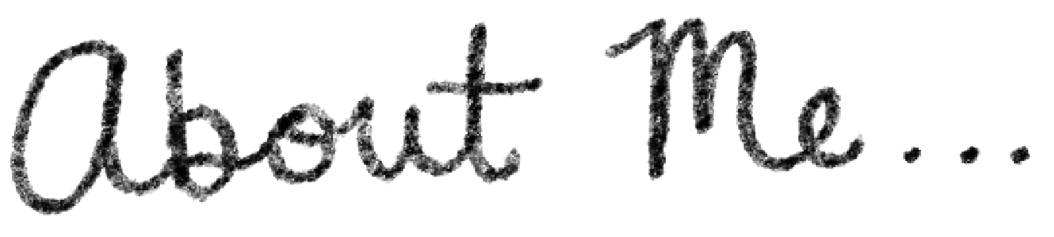
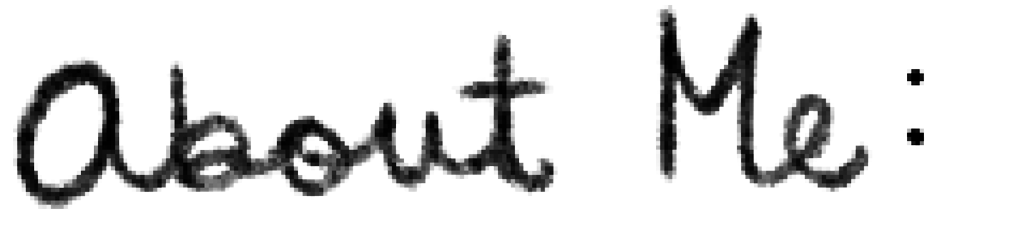
more updates

diff --git a/link.html b/link.html
@@ -19,26 +19,28 @@
   <nav>
       <ul class="navLinks">
         <li><a href="#Portfolio">Portfolio</a></li>
-        <li><a class="Resume" href=https://docs.google.com/document/d/1jrzqpjiagCrJo1YREEmkV6RM_bEIgH66/edit>Resume</a></li>
+        <li><a class="Resume" href=https://drive.google.com/file/d/15mvcexuAdEmLzTKPOJ1DM9QM28PHeR0C/view?usp=sharing>Resume</a></li>
         <li><a class="Contact" href="mailto: cara_nixon@berkeley.edu">Contact</a></li>
       </ul>
     </nav>
   <main>
-    <div class="container">
+    <div class="h3Beats">
+    <h3>Explore the beats I've covered by clicking the illustrated buttons below.</h3>
+  </div>
+    <div class="container1">
         <div class="column">
           <div class="educationbutton">
           <button onclick="submit()">
             <a href="#ed">
-              <img src="./assets/edbutton.png">
+              <img src="./assets/edbutton.png" alt="An illustration of a schoolhouse.">
             </a>
           </button>
            <div class="sjbutton">
             <button onclick="submit()">
               <a href="#sj">
-          <img src="./assets/sjbutton.png">
+          <img src="./assets/sjbutton.png" alt="An illustration of justice scales.">
         </a>
       </button>
-        
        </div>
      </div>
    </div>
@@ -46,13 +48,13 @@
           <div class="housingbutton">
           <button onclick="submit()">
             <a href="#house">
-              <img src="./assets/housingbutton.png">
+              <img src="./assets/housingbutton.png" alt="An illustration of a house.">
             </a>
           </button>
           <div class="healthbutton">
             <button onclick="submit()">
               <a href="#health">
-          <img src="./assets/healthbutton.png">
+          <img src="./assets/healthbutton.png" alt="An illustration of a first aid kit.">
         </a>
       </button>
         </div>
@@ -62,13 +64,13 @@
           <div class="polibutton">
             <button onclick="submit()">
               <a href="#poli">
-          <img src="./assets/polibutton.png">
+          <img src="./assets/polibutton.png" alt="An illustration of a government building with columns.">
         </a>
       </button>
          <div class="aebutton">
           <button onclick="submit()">
             <a href="#ae">
-              <img src="./assets/aebutton.png">
+              <img src="./assets/aebutton.png" alt="An illustration of an open book and film slate surrounded by tiny stars.">
             </a>
           </button>
         </div>
@@ -79,7 +81,7 @@
 <hr>
       <div class="portfoliopara">
         <div class="education">
-          <img id="ed" src="./assets/education.png">
+          <img id="ed" src="./assets/education.png" alt="Cursive handwriting reading 'Education.'">
         </div>
         <h3><u>K-12</u></h3>
           <p><strong><a href="https://richmondconfidential.org/2023/02/13 richmond-wccusd-teachers-contract-agreement-strike/">WCCUSD teachers reach tentative agreement with district to avert strike</a></strong>, Feb. 13, 2023 — Richmond Confidential</p>
@@ -97,14 +99,14 @@
           <p><strong><a href="https://dailybaro.orangemedianetwork.com/869/daily-barometer-news/osu-leading-in-cultivating-change-as-first-chapter-on-west-coast/">OSU leading in Cultivating Change as first chapter on West Coast</a></strong>, April 26, 2021 — The Daily Barometer</p>
           <hr>
            <div class="housing">
-          <img id="house" src="./assets/housing.png">
+          <img id="house" src="./assets/housing.png" alt="Cursive handwriting reading 'Housing.'">
         </div>
            <p><strong><a href="https://dailybaro.orangemedianetwork.com/12799/daily-barometer-news/osu-hsrc-receives-state-funding-for-basic-need-assistance-services/">OSU HSRC receives state funding for basic need assistance services</a></strong>, July 25, 2021 — The Daily Barometer</p>
           <p><strong><a href="https://dailybaro.orangemedianetwork.com/674/city-daily-barometer/as-college-students-continue-to-face-homelessness-resources-are-available/">As college students continue to face homelessness, resources are available</a></strong>, May 3, 2021 — The Daily Barometer</p>
           <p><strong><a href="https://www.corvallisadvocate.com/2021/oregon-state-students-step-up-for-homeless/">Oregon State Students Step Up for Homeless</a></strong>, March 28, 2021 — The Corvallis Advocate</p>
           <hr>
           <div class="politics">
-          <img id="poli" src="./assets/politics.png">
+          <img id="poli" src="./assets/politics.png" alt="Cursive handwriting reading 'Politics.'">
         </div>
           <p><strong><a href="https://richmondconfidential.org/2022/11/08/richmond-election-2022-mayor-council/">Richmond Election 2022: Polls close, results in key races expected early Wednesday</a></strong>, Nov. 8, 2022 — Richmond Confidential</p>
           <p><strong><a href="https://www.washingtonpost.com/politics/2021/10/25/big-name-democrats-are-campaigning-virginias-race-governor-does-that-help-candidates/">Big-name Democrats are campaigning in Virginia's race for governor. Does that help candidates?</a></strong>, Oct. 25, 2021 — The Washington Post</p>
@@ -112,7 +114,7 @@
           <p><strong><a href="https://dailybaro.orangemedianetwork.com/913/daily-barometer-news/pandemic-has-inspired-mobilized-local-climate-change-movements/">Pandemic has inspired, mobilized local climate change movements</a></strong>, March 24, 2021 — The Daily Barometer</p>
           <hr>
           <div class="socialjustice">
-          <img id="sj" src="./assets/socialjustice.png">
+          <img id="sj" src="./assets/socialjustice.png" alt="Cursive handwriting reading 'Social Justice.'">
         </div>
           <p><strong><a href="https://dailybaro.orangemedianetwork.com/12710/daily-barometer-news/osu-alcohol-other-drug-prevention-specialist-says-we-have-work-to-do-with-cannabis-education/">OSU alcohol, other drug prevention specialist says ‘We have work to do’ with cannabis education</a></strong>, Aug. 31, 2021 — The Daily Barometer</p>
           <p><strong><a href="https://www.corvallisadvocate.com/2021/whats-it-like-to-be-trans-and-transitioning-amid-covid/">What It's Like to be Trans & Transitioning During COVID</a></strong>, April 17, 2021 — The Corvallis Advocate</p>
@@ -121,7 +123,7 @@
           <p><strong><a href="https://www.corvallisadvocate.com/2020/american-reproductive-rights-threatened-should-corvallis-worry/">American Reproductive Rights Threatened — Should Corvallis Worry?</a></strong>, Dec. 13, 2020 — The Corvallis Advocate</p>
           <hr>
           <div class="health">
-          <img id="health" src="./assets/health.png">
+          <img id="health" src="./assets/health.png" alt="Cursive handwriting reading 'Health.'">
         </div>
            <p><strong><a href="https://dailybaro.orangemedianetwork.com/12664/daily-barometer-news/weekly-covid-19-testing-to-be-required-for-unvaccinated-osu-community/">Weekly COVID-19 testing to be required for unvaccinated OSU community</a></strong>, Sep. 1, 2021 — The Daily Barometer</p>
           <p><strong><a href="https://dailybaro.orangemedianetwork.com/12762/daily-barometer-news/navigating-post-pandemic-world-may-be-especially-difficult-for-people-with-anxiety/">Navigating post-pandemic world may be ‘especially difficult’ for people with anxiety</a></strong>, Aug. 18, 2021 — The Daily Barometer</p>
@@ -130,19 +132,19 @@
           <p><strong><a href="https://dailybaro.orangemedianetwork.com/1469/daily-barometer-news/trace-program-receives-2-million-grant/">TRACE program receives $2 million grant</a></strong>, Jan. 4, 2021 — The Daily Barometer</p>
           <hr>
         <div class="ac">
-          <img id="ae" src="./assets/ac.png">
+          <img id="ae" src="./assets/ac.png" alt="Cursive handwriting reading 'Arts & Culture.'">
         </div>
           <p><strong><a href="https://dailybaro.orangemedianetwork.com/13068/city-daily-barometer/48th-annual-corvallis-fall-festival-returns-allows-artists-to-reconnect/">48th annual Corvallis Fall Festival returns, allows artists to ‘reconnect’</a></strong>, Sep. 27, 2021 — The Daily Barometer</p>
           <p><strong><a href="https://dailybaro.orangemedianetwork.com/12695/city-daily-barometer/septembeerfest-canceled-for-second-consecutive-year-due-to-covid-19-concerns/">Septembeerfest canceled for second consecutive year due to COVID-19 concerns</a></strong>, Aug. 20, 2021 — The Daily Barometer</p>
           <p><strong><a href="https://dailybaro.orangemedianetwork.com/12732/city-daily-barometer/opening-ceremony-to-commemorate-corvallis-to-the-sea-trail-debut/">Opening ceremony to commemorate Corvallis to the Sea Trail debut</a></strong>, Aug. 20, 2021 — The Daily Barometer</p>
           <p><strong><a href="https://dailybaro.orangemedianetwork.com/12755/daily-barometer-news/osu-theatre-debuts-return-to-in-person-performances-with-bard-in-the-quad/">OSU Theatre debuts return to in-person performances with Bard in the Quad</a></strong>, Aug. 4, 2021 — The Daily Barometer</p>
           <p><strong><a href="https://dailybaro.orangemedianetwork.com/651/daily-barometer-news/student-artist-noughtie-dee-seeks-to-revolutionize-rap-in-male-dominated-genre/">Student artist Noughtie Dee seeks to revolutionize rap in male-dominated genre</a></strong>, May 10, 2021 — The Daily Barometer</p>
-
-
-
-
+        </div>
   </main>
 <footer>
+  <div class=footerLink>
+  <p>Cara Nixon ©2023</p>
+</div>
 </footer>
 </body>
 </html>

diff --git a/index.html b/index.html
@@ -4,7 +4,7 @@
   <meta charset="utf-8">
   <meta name="viewport" content="width=device-width,initial-scale=1">
   <title>Cara Nixon</title>
-  <meta name="description" content="Links to Cara Nixon's work.">
+  <meta name="description" content="Cara Nixon | Journalist">
   <link rel="stylesheet" href="./styles/main.css">
   <link rel="preconnect" href="https://fonts.googleapis.com"> 
   <link rel="preconnect" href="https://fonts.gstatic.com" crossorigin> 
@@ -19,55 +19,58 @@
   <nav>
       <ul class="navLinks">
         <li><a class="Portfolio" href=link.html>Portfolio</a></li>
-        <li><a class="Resume" href=https://docs.google.com/document/d/1jrzqpjiagCrJo1YREEmkV6RM_bEIgH66/edit>Resume</a></li>
+        <li><a class="Resume" href=https://drive.google.com/file/d/15mvcexuAdEmLzTKPOJ1DM9QM28PHeR0C/view?usp=sharing>Resume</a></li>
         <li><a class="Contact" href="mailto: cara_nixon@berkeley.edu">Contact</a></li>
       </ul>
     </nav>
   <main>
         <div class="aboutMe">
-          <img src="./assets/aboutme2.png">
+          <img src="./assets/aboutme2.png" alt="Cursive handwriting reading 'About Me.'">
         </div>
-        <p>Cara Nixon is a reporter and graduate journalism student currently living in Berkeley, Calif. She graduated in June 2022 with an honors bachelor's degree in political science and applied journalism from Oregon State University and has over four years of print and digital journalism experience. She now attends University of California, Berkeley's Graduate School of Journalism and works with Richmond Confidential and the Investigative Reporting Program's Aging in America project. Prior to coming to California, Nixon worked in both reporter and editor positions at local Corvallis, Ore. newspapers, The Corvallis Advocate and The Daily Barometer.</p>
+        <p>Hi there! I'm Cara Nixon, a journalist with over four years of experience. I'm currently attending <a href=https://journalism.berkeley.edu><u>UC Berkeley's Graduate School of Journalism</a></u> and focusing on narrative writing and multimedia. Besides pursuing my master's, I'm also interning for the Investigative Reporting Program's <a href=https://journalism.berkeley.edu/why-berkeley/our-work/irp/aging-in-america/><u>Aging in America project</a></u> and covering education for <a href=https://richmondconfidential.org/category/education/><u>Richmond Confidential</a></u>. I've had bylines in The Corvallis Advocate, The Daily Barometer, The Washington Post, Richmond Confidential and Oakland North. I'm passionate about covering issues which affect low-income communities and believe there are key intersections in the education and housing beats. This summer, I'll be joining <a href=https://edsource.org><u>EdSource</a></u> as an intern.</p>
       <div class="recently">
-        <img src="./assets/recently3.png">
+        <img src="./assets/recently3.png" alt="Cursive handwriting reading 'Recently.'">
       </div>
       <div class="container">
         <div class="column">
-          <img src="./assets/Story1.webp">
+          <img src="./assets/Story1.webp" alt="A sign reading 'West Contra Costa Unified School District.'">
           <figcaption>Richmond Confidential, 02/13/2023</figcaption>
           <h3><a href=https://richmondconfidential.org/2023/02/13/richmond-wccusd-teachers-contract-agreement-strike/>UPDATE: WCCUSD teachers vote for tentative contract</a></h3>
-          <img src="./assets/Story4.jpeg">
+          <img src="./assets/Story4.jpeg" alt="An American flag waves in front of a man exiting a polling station.">
           <figcaption>Richmond Confidential, 11/08/2022</figcaption>
           <h3><a href=https://richmondconfidential.org/2022/11/08/richmond-election-2022-mayor-council/>Richmond Election 2022: Polls close, results in key races expected early Wednesday</a></h3>
-          <img src="./assets/Story7.webp">
+          <img src="./assets/Story7.webp" alt="Terry McAuliffe and Barack Obama fist bump in front of an American flag.">
           <figcaption>The Washington Post, 10/25/2021</figcaption>
-          <h3><a href=https://www.clippings.me/users/caranixon>Big-name Democrats are campaigning in Virginia's race for governor. Does that help candidates?</a></h3>
+          <h3><a href=https://www.washingtonpost.com/politics/2021/10/25/big-name-democrats-are-campaigning-virginias-race-governor-does-that-help-candidates/>Big-name Democrats are campaigning in Virginia's race for governor. Does that help candidates?</a></h3>
        </div>
          <div class="column">
-           <img src="./assets/Story2.jpeg">
+           <img src="./assets/Story2.jpeg" alt="Protesters hold yellow signs reading 'Students demand no school closures!' and 'Educators, parents, students united.'">
            <figcaption>Oakland North, 02/03/2023</figcaption>
           <h3><a href=https://oaklandnorth.net/2023/02/03/oakland-unified-school-district-perb-violation/>State board tells OUSD school closures violated labor law</a></h3>
-          <img src="./assets/Story5.jpeg">
+          <img src="./assets/Story5.jpeg" alt="A colorful mural with a painted woman in the middle holding a raised fist and shouting 'Stand up!'">
           <figcaption>Richmond Confidential, 11/03/2022</figcaption>
           <h3><a href=https://richmondconfidential.org/2022/11/03/richmond-wccusd-dual-language-immersion-teacher-shortage/>Teacher shortage threatens to crumble popular dual-language...</a></h3>
-          <img src="./assets/Story8.png">
+          <img src="./assets/Story8.png" alt="An illustration of a woman wearing a mask and looking around at a Fall Festival scene.">
           <figcaption>The Daily Barometer, 09/27/2021</figcaption>
           <h3><a href=https://dailybaro.orangemedianetwork.com/13068/city-daily-barometer/48th-annual-corvallis-fall-festival-returns-allows-artists-to-reconnect/>48th annual Corvallis Fall Festival returns, allows artists to ‘reconnect’</a></h3>
         </div>
         <div class="column">
-           <img src="./assets/Story3.jpeg">
+           <img src="./assets/Story3.jpeg" alt="Rusted pink monkey bars on a school playground.">
            <figcaption>Richmond Confidential, 01/18/2023</figcaption>
           <h3><a href=https://richmondconfidential.org/2023/01/18/richmond-stege-elementary-wccusd-disrepair/>‘I feel like you guys don’t care about our school’: Stege...</a></h3>
-          <img src="./assets/Story6.jpeg">
+          <img src="./assets/Story6.jpeg" alt="Parent protesters holding up a white sign reading 'Where's my teacher? Donde esta mi maestrao?'">
           <figcaption>Richmond Confidential, 09/22/2022</figcaption>
           <h3><a href=https://richmondconfidential.org/2022/09/22/richmond-wccusd-teacher-shortage-rally/>‘Where’s my teacher?’ Students and parents want to know why WCCUSD...</a></h3>
-          <img src="./assets/Story9.jpeg">
+          <img src="./assets/Story9.jpeg" alt="A woman stands in front of the Memorial Union on the Oregon State University campus.">
           <figcaption>The Daily Barometer, 09/27/2021</figcaption>
           <h3><a href=https://dailybaro.orangemedianetwork.com/13085/daily-barometer-news/osu-clubs-transition-back-to-in-person-activities/>OSU clubs transition back to in-person activities</a></h3>
         </div>
       </div>
   </main>
 <footer>
+  <div class="footerIndex">
+  <p>Cara Nixon ©2023</p>
+</div>
 </footer>
 </body>
 </html>

diff --git a/styles/main.css b/styles/main.css
@@ -10,7 +10,6 @@ body {
   width: 70%;
   margin: 0 auto;
   background-color: #DDEDFF;
-  cursor: url("./assets/cursor.png"), auto;
 }
 
 
@@ -19,6 +18,21 @@ h1 {
   font-weight: 900;
   text-align: center;
     }
+
+.footerIndex {
+  padding-top: 25rem;
+  text-align: center;
+}
+
+.footerLink {
+  padding-top: 5rem;
+  text-align: center;
+}
+
+.h3Beats {
+  text-align: center;
+  padding-top: 1rem;
+}
 
 a:link {
   text-decoration: none;
@@ -110,16 +124,18 @@ hr {
   overflow: hidden;
 }
 
+
 .container1 {
   display: grid;
   grid-template-columns: 300px 300px 300px;
   text-align: left;
   padding-left: 80px;
+  padding-bottom: 300px;
 }
 
 .container1 img {
-  width: 200px;
-  height: 200px;
+  width: 250px;
+  height: 150px;
   overflow: hidden;
 }
 
@@ -130,7 +146,7 @@ hr {
 
 .column img {
   padding-top: 1rem;
-  padding-left: 50px;
+  padding-left: 0px;
 }
 
 .educationbutton img {
@@ -171,7 +187,6 @@ hr {
 }
 
 .navLinks ul {
-  text-align: center;
   text-decoration: none;
   list-style-type: none;
 }
